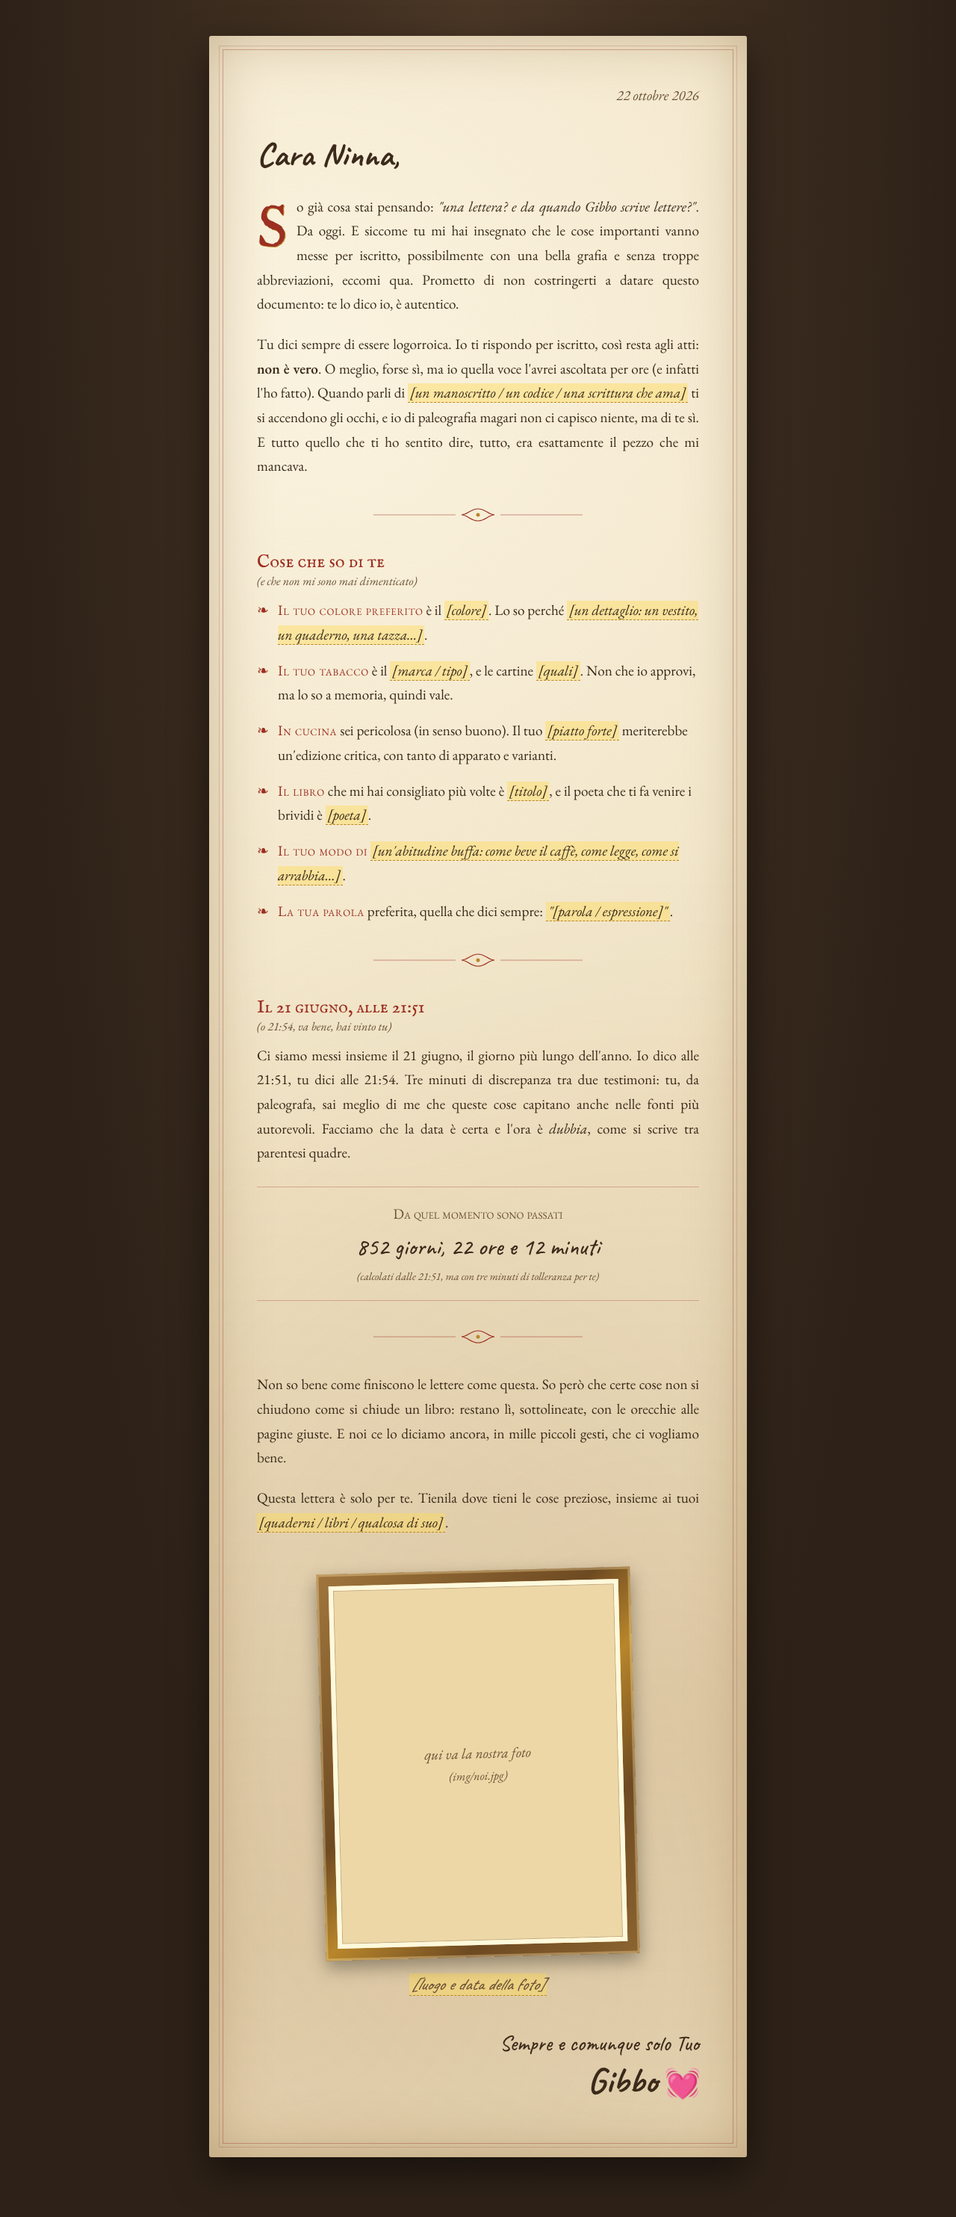
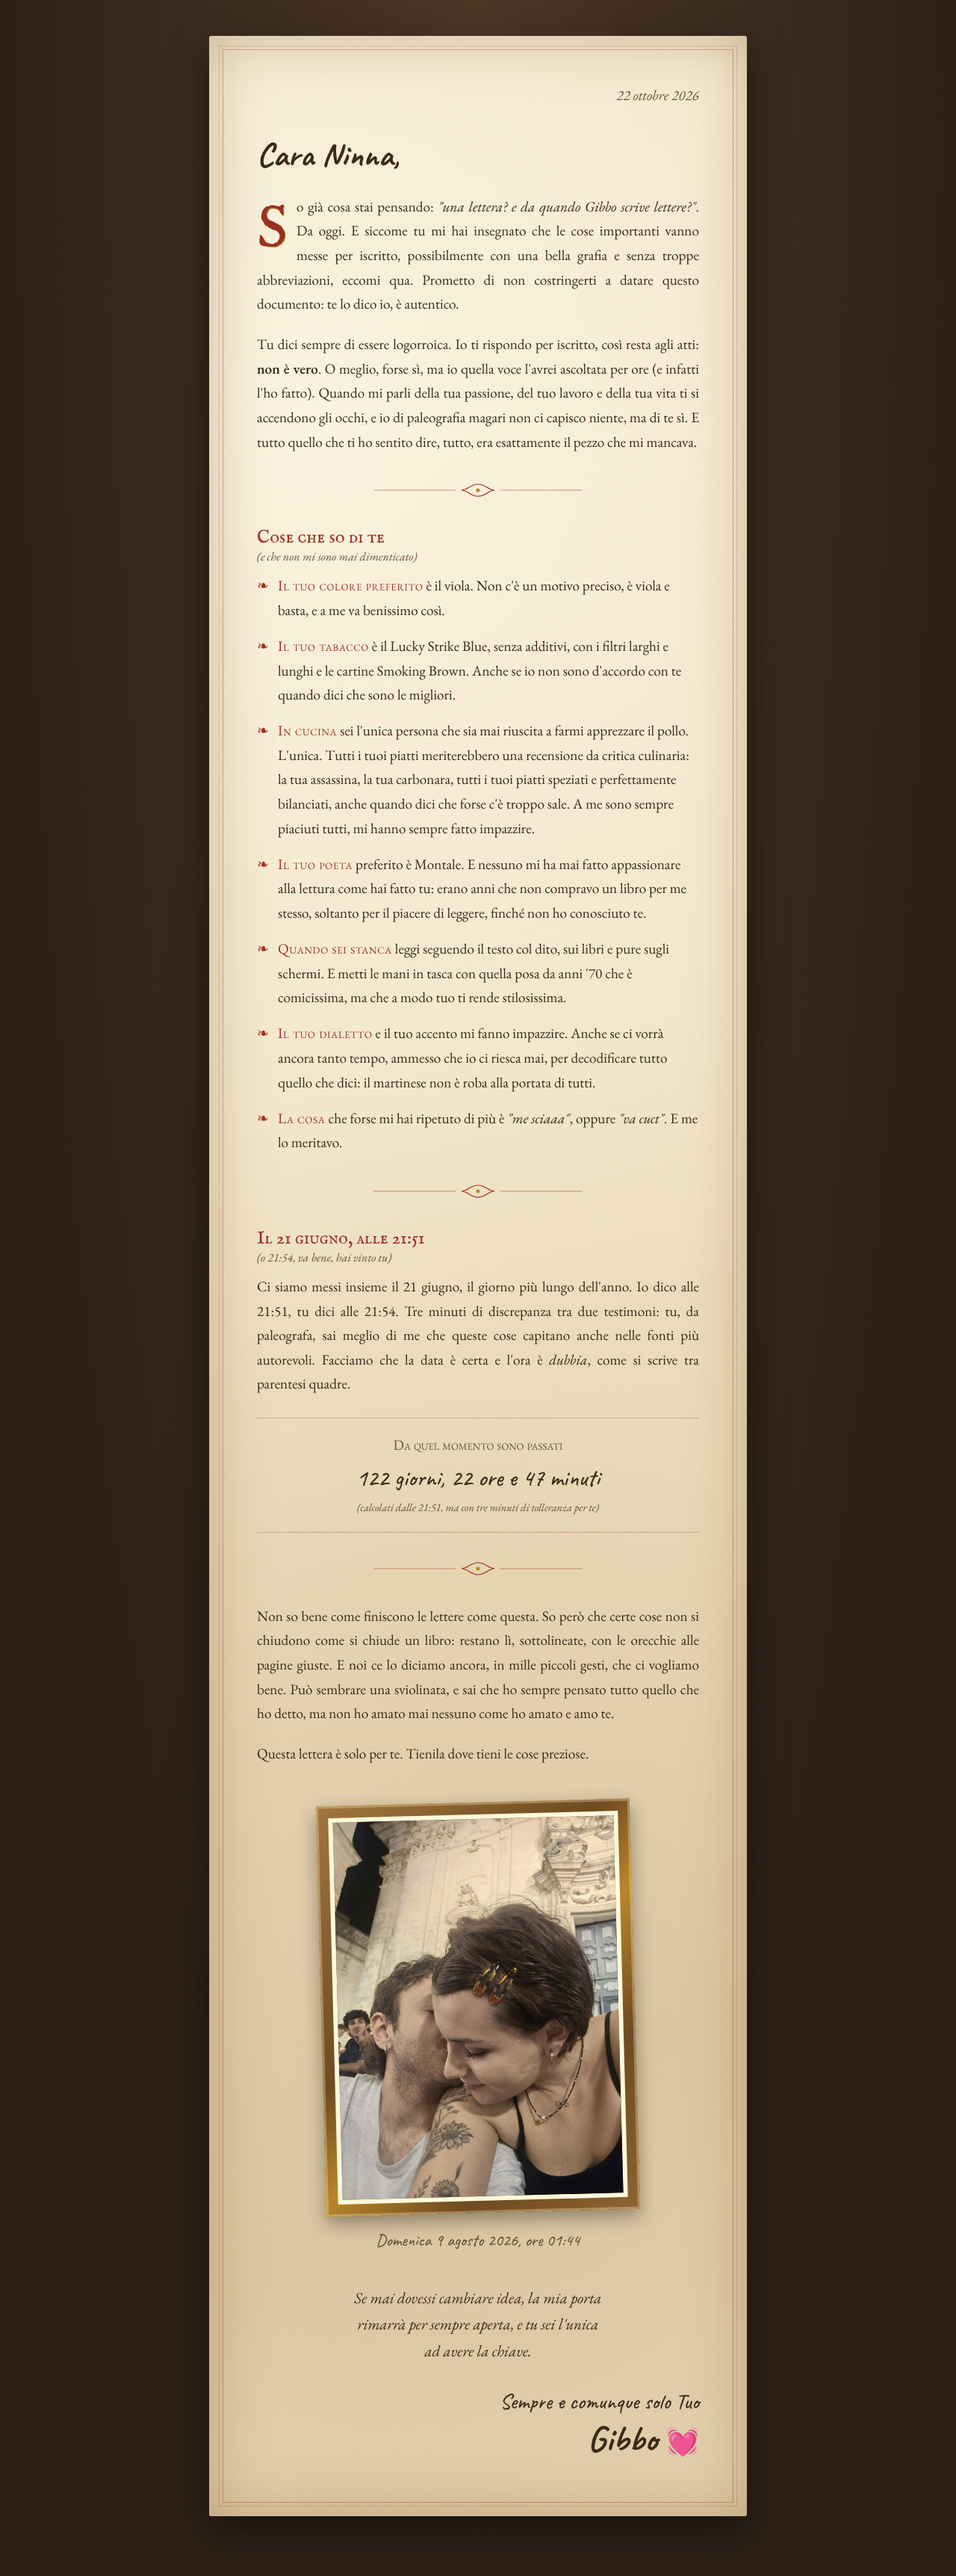
Aggiunge la foto, la chiusura e la frase della porta aperta
Claude-Session: https://claude.ai/code/session_01BcyfTU2UiH6s5GhZPMy38s

diff --git a/index.html b/index.html
@@ -119,11 +119,12 @@
         Non so bene come finiscono le lettere come questa. So però che certe cose non si chiudono
         come si chiude un libro: restano lì, sottolineate, con le orecchie alle pagine giuste.
         E noi ce lo diciamo ancora, in mille piccoli gesti, che ci vogliamo bene.
+        Può sembrare una sviolinata, e sai che ho sempre pensato tutto quello che ho detto,
+        ma non ho amato mai nessuno come ho amato e amo te.
       </p>
 
       <p>
-        Questa lettera è solo per te. Tienila dove tieni le cose preziose, insieme ai tuoi
-        <span class="todo">[quaderni / libri / qualcosa di suo]</span>.
+        Questa lettera è solo per te. Tienila dove tieni le cose preziose.
       </p>
 
       <!-- ============ LA FOTO ============ -->
@@ -132,8 +133,13 @@
           <img src="img/noi.jpg" alt="Gibbo e Ninna" onerror="this.closest('.cornice').classList.add('vuota')">
           <div class="foto-segnaposto">qui va la nostra foto<br><small>(img/noi.jpg)</small></div>
         </div>
-        <figcaption><span class="todo">[luogo e data della foto]</span></figcaption>
+        <figcaption>Domenica 9 agosto 2026, ore 01:44</figcaption>
       </figure>
+
+      <p class="porta">
+        Se mai dovessi cambiare idea, la mia porta rimarrà per sempre aperta,
+        e tu sei l'unica ad avere la chiave.
+      </p>
 
       <p class="firma">
         Sempre e comunque solo Tuo<br>

diff --git a/style.css b/style.css
@@ -278,7 +278,7 @@ p { margin: 0 0 1.1em; text-align: justify; hyphens: auto; }
 .foto-segnaposto {
   display: block;
   width: 100%;
-  aspect-ratio: 4 / 5;
+  aspect-ratio: 3 / 4;
   object-fit: cover;
   border: 6px solid #f8efd9;
   box-shadow: inset 0 0 0 1px rgba(0, 0, 0, .2);
@@ -299,6 +299,15 @@ p { margin: 0 0 1.1em; text-align: justify; hyphens: auto; }
   font-family: "Caveat", cursive;
   font-size: 1.4rem;
   color: var(--inchiostro-tenue);
+}
+
+/* la porta aperta */
+.porta {
+  text-align: center;
+  font-style: italic;
+  font-size: 1.3rem;
+  margin: 0 auto 32px;
+  max-width: 34ch;
 }
 
 /* firma */
